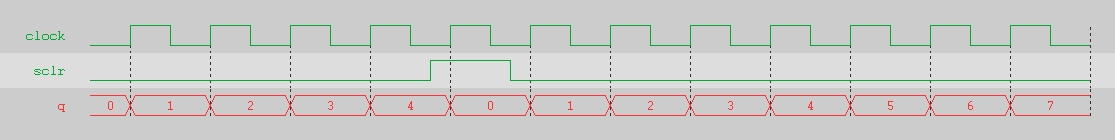
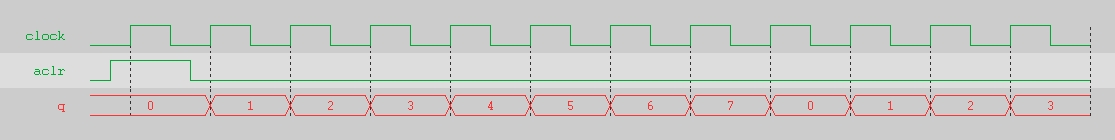
Add files via upload

diff --git a/Texto_Rotativo/Contador_3bits/Contador_3bits_waveforms.html b/Texto_Rotativo/Contador_3bits/Contador_3bits_waveforms.html
@@ -4,7 +4,7 @@
 </head>
 <body>
 <h2><CENTER>Sample behavioral waveforms for design file "Contador_3bits.v" </CENTER></h2>
-<P>The following waveforms show the behavior of lpm_counter megafunction for the chosen set of parameters in design "Contador_3bits.v". The design "Contador_3bits.v" is a 3 bit up counter. The counter has a synchronous clear input. </P>
+<P>The following waveforms show the behavior of lpm_counter megafunction for the chosen set of parameters in design "Contador_3bits.v". The design "Contador_3bits.v" is a 3 bit up counter. The counter has an asynchronous clear input. </P>
 <CENTER><img src=Contador_3bits_wave0.jpg> </CENTER>
 <P><CENTER><FONT size=2>Fig. 1 : Wave showing counter operation. </CENTER></P>
 <P><FONT size=3></P>
